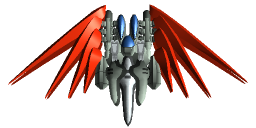
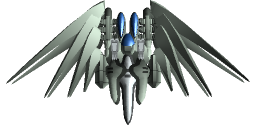
enemy texture change

diff --git a/src/enemy/EnemyHard.js b/src/enemy/EnemyHard.js
@@ -635,7 +635,7 @@ gls2.Enemy.akane = tm.createClass(
     init: function(gameScene, software) {
         this.superInit(gameScene, software, "hino");
 
-        this._sprite = _Sprite("tex_stage3", 64, 32).setFrameIndex(0);
+        this._sprite = _Sprite("tex4", 64, 32).setFrameIndex(0);
     },
     draw: function(canvas) {
         this._sprite.draw(canvas);
@@ -653,7 +653,7 @@ gls2.Enemy.nao = tm.createClass(
 
     init: function(gameScene, software) {
         this.superInit(gameScene, software, "midorikawa");
-        this._sprite = _Sprite("tex_stage3", 64, 64).setFrameIndex(8);
+        this._sprite = _Sprite("tex4", 64, 64).setFrameIndex(8);
     },
     update: function(app) {
         gls2.Enemy.prototype.update.call(this, app);
@@ -674,7 +674,7 @@ gls2.Enemy.reika = tm.createClass(
 
     init: function(gameScene, software) {
         this.superInit(gameScene, software, "aoki");
-        this._sprite = _Sprite("tex_stage3", 64, 64).setFrameIndex(1);
+        this._sprite = _Sprite("tex4", 64, 64).setFrameIndex(1);
     },
     update: function(app) {
         gls2.Enemy.prototype.update.call(this, app);
@@ -709,7 +709,7 @@ gls2.Enemy.aguri = tm.createClass(
 
     init: function(gameScene, software) {
         this.superInit(gameScene, software, "madoka");
-        this._sprite = _Sprite("tex_stage3", 256, 64).setFrameIndex(3);
+        this._sprite = _Sprite("tex4", 256, 64).setFrameIndex(3);
     },
     update: function(app) {
         gls2.Enemy.prototype.update.call(this, app);
@@ -728,7 +728,7 @@ gls2.Enemy.miyuki_y = tm.createClass(
     init: function(gameScene, software) {
         this.superInit(gameScene, software, "hoshizora_y");
 
-        this._sprite = _Sprite("tex_stage3", 256, 128).setFrameIndex(1);
+        this._sprite = _Sprite("tex4", 256, 128).setFrameIndex(1);
     },
     update: function(app) {
         gls2.Enemy.prototype.update.call(this, app);
@@ -771,7 +771,7 @@ gls2.Enemy.miyuki_t = tm.createClass(
     init: function(gameScene, software) {
         this.superInit(gameScene, software, "hoshizora_t");
 
-        this._sprite = _Sprite("tex_stage3", 64, 128).setFrameIndex(1);
+        this._sprite = _Sprite("tex4", 64, 128).setFrameIndex(1);
     },
     update: function(app) {
         gls2.Enemy.prototype.update.call(this, app);
@@ -811,7 +811,7 @@ gls2.Enemy.Alice = tm.createClass({
 
     init: function(gameScene, software) {
         this.superInit(gameScene, software, "yotsuba");
-        this._sprite = _Sprite("tex_stage3", 128, 128).setFrameIndex(1);
+        this._sprite = _Sprite("tex4", 128, 128).setFrameIndex(1);
     },
     draw: function(canvas) {
         this._sprite.draw(canvas);
@@ -1053,7 +1053,7 @@ gls2.Enemy.Setsuna = tm.createClass(
 
     init: function(gameScene, software) {
         this.superInit(gameScene, software, "higashi");
-        this._sprite = _Sprite("tex_stage3", 256, 128).setFrameIndex(2);
+        this._sprite = _Sprite("tex4", 256, 128).setFrameIndex(2);
         this.blendMode = "lighter";
     },
     ondying: function() {
@@ -1091,7 +1091,7 @@ gls2.Enemy.Love = tm.createClass(
 
     init: function(gameScene, software) {
         this.superInit(gameScene, software, "momozono");
-        this._sprite = _Sprite("tex_stage3", 256, 128).setFrameIndex(4);
+        this._sprite = _Sprite("tex4", 256, 128).setFrameIndex(4);
         this._sprite.setScale(2);
     },
     ondying: function() {

diff --git a/src/GlShooter2.js b/src/GlShooter2.js
@@ -60,7 +60,9 @@ gls2.GlShooter2 = tm.createClass(
             "tex1": "assets/tex1.png",
             "tex2": "assets/tex2.png",
             "tex3": "assets/tex3.png",
+            "tex4": "assets/tex4.png",
             "tex_tank1": "assets/tex_tank1.png",
+            "yotsubaLeaf": "assets/tex_yotsubaLeaf.png",
             "fighter": "assets/fighters.png",
             "laserR": "assets/laser_r.png",
             "laserG": "assets/laser_g.png",
@@ -76,10 +78,6 @@ gls2.GlShooter2 = tm.createClass(
             "bomb": "assets/bomb.png",
             "bombIcon": "assets/bomb_icon.png",
             "result_bg": "assets/result_bg.png",
-
-            // use stage3
-            "tex_stage3": "assets/tex_stage3.png",
-            "yotsubaLeaf": "assets/tex_yotsubaLeaf.png",
 
             // bgm
             "bgmShipSelect": "assets2/nc44200.mp3",
